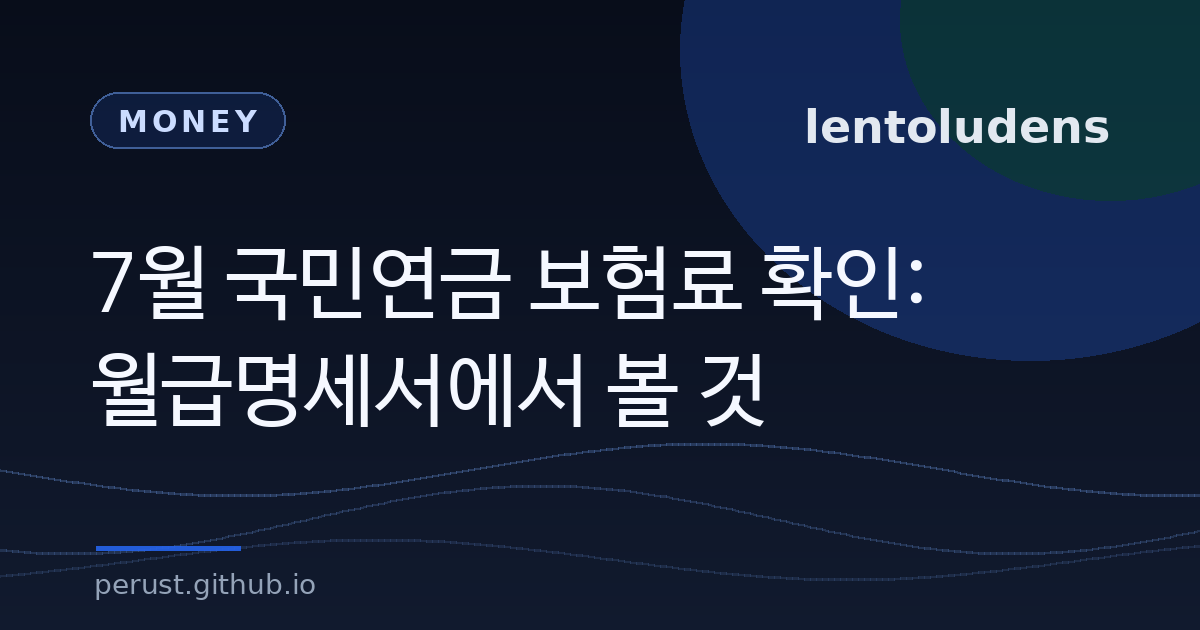
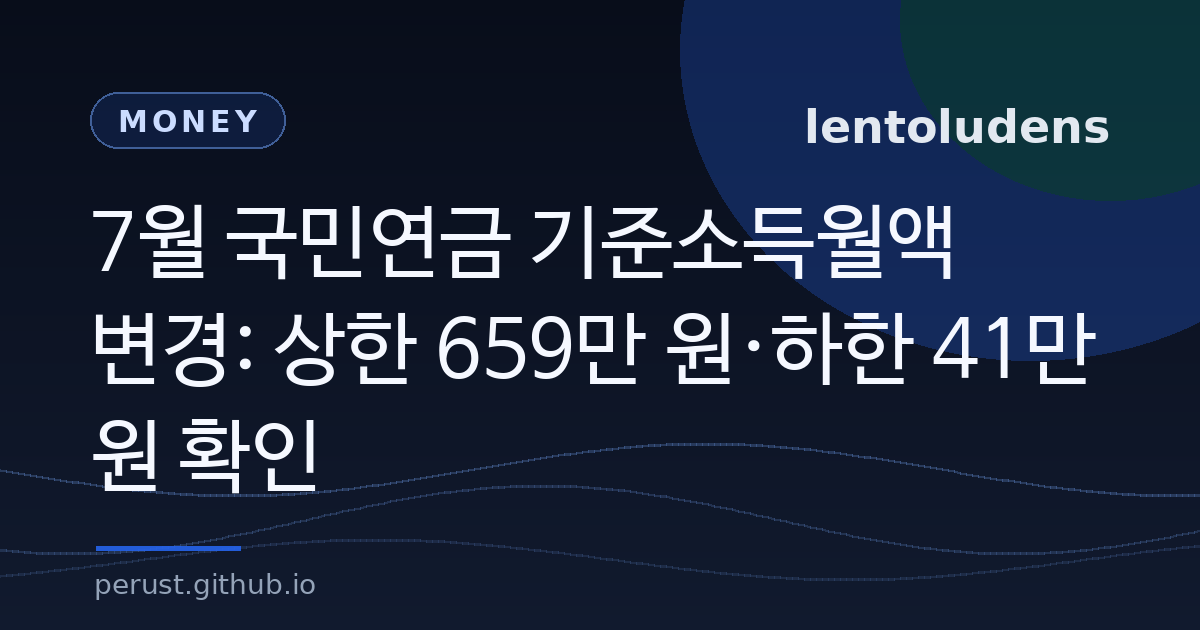
Refocus pension paycheck post on July income base limits

Changed region(s): [[0.0617, 0.3016, 0.925, 0.7841]]

diff --git a/src/content/blog/2026-07-06-national-pension-july-paycheck-checklist.md b/src/content/blog/2026-07-06-national-pension-july-paycheck-checklist.md
@@ -1,128 +1,168 @@
 ---
-title: "7월 국민연금 보험료 확인: 월급명세서에서 볼 것"
-description: "7월 월급명세서에서 국민연금 보험료가 달라졌다면 기준소득월액, 상·하한액, 본인부담액, 회사 신고 내역을 순서대로 확인해야 합니다."
+title: "7월 국민연금 기준소득월액 변경: 상한 659만 원·하한 41만 원 확인"
+description: "2026년 7월부터 국민연금 기준소득월액 상한액은 659만 원, 하한액은 41만 원으로 바뀝니다. 월급명세서에서 보험료 변화를 확인하는 순서를 정리했습니다."
 date: "2026-07-06T06:05:00+09:00"
+updated: "2026-07-06T17:25:00+09:00"
 category: "Money"
-tags: ["국민연금", "월급명세서", "4대보험", "연금", "직장인", "재테크"]
+tags: ["국민연금", "기준소득월액", "월급명세서", "4대보험", "직장인", "재테크"]
 ---
 
-7월 월급명세서에서 국민연금 공제액이 달라졌다면 먼저 오류라고 단정하지 않는 편이 좋습니다. 국민연금 보험료의 기준이 되는 기준소득월액은 매년 조정될 수 있고, 특히 7월부터 새 기준이 적용되는 흐름이 반복됩니다. 다만 실제 공제액은 개인의 신고소득, 회사 처리, 가입자 유형에 따라 달라지므로 월급명세서와 국민연금공단 내역을 함께 확인해야 합니다.
+2026년 7월부터 국민연금 보험료를 계산할 때 쓰는 기준소득월액 상한액과 하한액이 바뀝니다. 상한액은 637만 원에서 659만 원으로, 하한액은 40만 원에서 41만 원으로 조정됩니다. 7월 월급명세서에서 국민연금 공제액이 달라졌다면 먼저 이 변경을 확인해야 합니다.
 
-이번 글은 “왜 7월에 국민연금이 바뀌었는지”, “내 월급명세서에서 무엇을 봐야 하는지”, “회사에 무엇을 물어봐야 하는지”를 실무 체크리스트로 정리합니다.
+검색에서는 예전 보건복지부 보도자료 제목인 “국민연금 기준소득월액 상·하한액 7월부터 4.5% 인상”도 많이 보입니다. 그 4.5% 인상은 2024년 적용분의 표현입니다. 현재 확인해야 할 2026년 적용분은 보건복지부가 발표한 2026년 기준소득월액 조정으로, 최근 3년간 평균소득 변동률 3.4%를 반영해 상한 659만 원, 하한 41만 원이 적용됩니다.
 
 ## 먼저 볼 결론
 
 <ul class="issue-list">
   <li class="issue-card">
-    <span class="issue-badge">핵심</span>
-    <h3>7월에는 기준소득월액 변경 가능성</h3>
-    <p class="issue-summary">국민연금 보험료는 실제 월급 전액이 아니라 기준소득월액을 기준으로 계산됩니다. 상·하한액 조정이나 회사 신고소득 반영으로 7월 공제액이 바뀔 수 있습니다.</p>
+    <span class="issue-badge">적용</span>
+    <h3>2026년 7월부터 2027년 6월까지</h3>
+    <p class="issue-summary">국민연금 기준소득월액 상·하한액 조정은 7월분부터 다음 해 6월분까지 적용됩니다.</p>
+    <p class="issue-meta">출처: 보건복지부, 국민연금공단</p>
   </li>
   <li class="issue-card">
-    <span class="issue-badge">직장인</span>
-    <h3>월급명세서의 국민연금 공제액 확인</h3>
-    <p class="issue-summary">사업장가입자는 보통 근로자와 사용자가 보험료를 나누어 부담합니다. 명세서에는 본인 부담분만 공제액으로 보이는 경우가 많습니다.</p>
+    <span class="issue-badge">상한</span>
+    <h3>637만 원에서 659만 원</h3>
+    <p class="issue-summary">월 소득이 상한액을 넘는 가입자는 659만 원까지만 국민연금 보험료 산정 기준으로 잡힙니다.</p>
+    <p class="issue-meta">월 상한 기준 총 보험료 626,050원, 직장가입자 본인부담 313,025원</p>
   </li>
   <li class="issue-card">
-    <span class="issue-badge">확인</span>
-    <h3>급여 변동과 신고 내역 분리</h3>
-    <p class="issue-summary">이번 달 기본급·수당이 바뀐 것인지, 국민연금 기준소득월액 자체가 바뀐 것인지 구분해야 합니다. 둘을 섞으면 원인을 잘못 찾기 쉽습니다.</p>
+    <span class="issue-badge">하한</span>
+    <h3>40만 원에서 41만 원</h3>
+    <p class="issue-summary">소득이 낮더라도 국민연금 보험료 산정에는 하한액이 적용됩니다. 하한 기준도 7월부터 1만 원 올라갑니다.</p>
+    <p class="issue-meta">월 하한 기준 총 보험료 38,950원, 직장가입자 본인부담 19,475원</p>
   </li>
 </ul>
 
-## 국민연금 기준소득월액 뜻
+## 기준소득월액 뜻
 
-국민연금 보험료는 월급명세서의 모든 항목을 그때그때 더해서 바로 계산하는 방식으로 이해하면 헷갈립니다. 출발점은 기준소득월액입니다. 쉽게 말하면 국민연금 보험료와 나중의 연금급여 산정에 쓰기 위해 정한 월 소득 기준입니다.
+기준소득월액은 국민연금 보험료와 나중의 연금액을 계산할 때 쓰는 월 소득 기준입니다. 월급명세서의 실수령액이나 매달 받은 돈을 그대로 쓰는 개념이 아닙니다.
 
-보건복지부는 국민연금 보험료 산정의 기준이 되는 기준소득월액 상·하한액을 법령에 따라 매년 조정하며, 전체 가입자의 최근 3년간 평균소득 변동률을 반영한다고 설명한 바 있습니다. 그래서 월급이 크게 바뀌지 않았는데도 7월 무렵 국민연금 공제액이 달라지는 일이 생길 수 있습니다.
+국민연금에는 상한액과 하한액이 있습니다. 소득이 아무리 높아도 상한액까지만 보험료 계산에 반영되고, 소득이 낮아도 하한액 기준이 적용될 수 있습니다. 그래서 상·하한액이 바뀌면 일부 가입자의 월 보험료가 달라집니다.
 
-여기서 중요한 점은 두 가지입니다.
+보건복지부는 기준소득월액 상·하한액을 국민연금 전체 가입자의 최근 3년간 평균소득 변동률을 반영해 매년 결정한다고 설명합니다. 2026년에는 평균소득 변동률 3.4%가 반영됐고, 이에 따라 상한액과 하한액이 조정됐습니다.
 
-- 기준소득월액에는 상한과 하한이 있습니다.
-- 실제 공제액은 회사가 신고한 기준소득월액과 가입자 유형에 따라 달라집니다.
+## 7월부터 바뀌는 숫자
 
-월급이 높은 사람은 상한액 조정의 영향을 받을 수 있고, 소득이 낮거나 짧게 일하는 사람은 하한액과 가입자 유형을 봐야 합니다. 프리랜서·지역가입자·임의가입자는 직장인 월급명세서와 확인 방식이 다릅니다.
+2026년 7월부터 적용되는 핵심 숫자는 아래입니다.
+
+<ul class="issue-list">
+  <li class="issue-card">
+    <span class="issue-badge">상한액</span>
+    <h3>637만 원 → 659만 원</h3>
+    <p class="issue-summary">월 소득이 659만 원을 넘더라도 국민연금 보험료는 659만 원을 기준으로 계산됩니다. 기존 상한액보다 22만 원 올라갑니다.</p>
+  </li>
+  <li class="issue-card">
+    <span class="issue-badge">하한액</span>
+    <h3>40만 원 → 41만 원</h3>
+    <p class="issue-summary">하한 기준은 1만 원 올라갑니다. 소득이 낮은 가입자나 일부 지역가입자는 하한 조정 여부를 확인할 필요가 있습니다.</p>
+  </li>
+  <li class="issue-card">
+    <span class="issue-badge">영향</span>
+    <h3>대부분은 상·하한 조정 직접 영향 없음</h3>
+    <p class="issue-summary">보건복지부는 해당 소득 구간에 속하지 않는 대부분의 가입자는 상·하한액 조정에 따른 영향을 받지 않는다고 설명했습니다.</p>
+  </li>
+</ul>
+
+여기서 중요한 점은 “모든 직장인의 국민연금이 같은 비율로 오른다”가 아니라는 것입니다. 상한액보다 낮고 하한액보다 높은 구간에 있는 일반적인 직장인은 상·하한액 조정만으로 보험료가 달라지지 않을 수 있습니다. 다만 7월에는 정기결정, 급여 변동, 보험료율 변화, 회사 신고 내역이 함께 반영될 수 있어 월급명세서를 직접 확인해야 합니다.
+
+## 월급에서 얼마나 달라지나
+
+2026년 국민연금 보험료율은 9.5%입니다. 직장가입자는 보통 회사와 근로자가 절반씩 부담하므로 월급명세서에 보이는 본인 부담률은 4.75%로 이해하면 됩니다.
+
+상한액 기준으로 보면 총 보험료는 다음처럼 바뀝니다.
+
+<ul class="issue-list">
+  <li class="issue-card">
+    <span class="issue-badge">기존 상한</span>
+    <h3>637만 원 기준</h3>
+    <p class="issue-summary">총 보험료는 월 605,150원입니다. 직장가입자 본인부담은 월 302,575원입니다.</p>
+  </li>
+  <li class="issue-card">
+    <span class="issue-badge">새 상한</span>
+    <h3>659만 원 기준</h3>
+    <p class="issue-summary">총 보험료는 월 626,050원입니다. 직장가입자 본인부담은 월 313,025원입니다.</p>
+  </li>
+  <li class="issue-card">
+    <span class="issue-badge">차이</span>
+    <h3>상한 초과 직장인은 본인부담 월 10,450원 증가</h3>
+    <p class="issue-summary">월 소득이 기존 상한액 637만 원을 넘는 직장인은 상한 조정으로 본인부담액이 늘 수 있습니다.</p>
+  </li>
+</ul>
+
+하한액 기준으로는 총 보험료가 월 38,000원에서 38,950원으로 바뀝니다. 직장가입자 본인부담 기준으로는 월 19,000원에서 19,475원으로 475원 차이입니다.
+
+다만 지역가입자, 임의가입자, 사업장가입자, 두루누리 지원 여부에 따라 실제 부담 방식은 달라질 수 있습니다. 본인 월급명세서 금액과 국민연금공단 내역을 같이 보는 것이 안전합니다.
+
+## 4.5% 인상 보도자료와 2026년 숫자 구분
+
+“상·하한액 7월부터 4.5% 인상”이라는 표현은 보건복지부의 2024년 보도자료에서 나온 내용입니다. 당시에는 기준소득월액 상한액이 590만 원에서 617만 원으로, 하한액이 37만 원에서 39만 원으로 조정됐습니다.
+
+하지만 지금 월급명세서에서 확인해야 할 2026년 적용 숫자는 다릅니다.
+
+<ul class="issue-list">
+  <li class="issue-card"><h3>2024년 적용분</h3><p class="issue-summary">상한액 590만 원 → 617만 원, 하한액 37만 원 → 39만 원, 보도자료 표현 4.5% 인상</p></li>
+  <li class="issue-card"><h3>2026년 적용분</h3><p class="issue-summary">상한액 637만 원 → 659만 원, 하한액 40만 원 → 41만 원, 평균소득 변동률 3.4% 반영</p></li>
+</ul>
+
+따라서 검색 결과에서 4.5% 인상이라는 제목을 봤다면 먼저 연도를 확인해야 합니다. 2026년 7월 월급명세서를 보는 목적이라면 659만 원과 41만 원이 기준입니다.
 
 ## 월급명세서에서 볼 순서
 
-7월 급여를 받았거나 받을 예정이라면 아래 순서로 보면 됩니다. 처음부터 복잡한 계산을 하기보다, 숫자가 어디에서 바뀌었는지 찾는 것이 먼저입니다.
+7월 급여를 받았거나 받을 예정이라면 아래 순서로 확인하면 됩니다.
 
 <ul class="issue-list">
   <li class="issue-card">
     <span class="issue-badge">1</span>
-    <h3>국민연금 공제액</h3>
-    <p class="issue-summary">지난달 명세서와 이번 달 명세서의 국민연금 공제액을 비교합니다. 건강보험, 고용보험, 소득세와 섞어 보지 말고 국민연금 항목만 따로 봅니다.</p>
+    <h3>국민연금 공제액 비교</h3>
+    <p class="issue-summary">6월과 7월 월급명세서의 국민연금 항목만 따로 비교합니다. 건강보험, 고용보험, 소득세와 섞어 보면 원인을 놓치기 쉽습니다.</p>
   </li>
   <li class="issue-card">
     <span class="issue-badge">2</span>
-    <h3>기본급과 고정수당</h3>
-    <p class="issue-summary">승진, 연봉 조정, 직책수당, 고정수당 변화가 있었는지 확인합니다. 급여 자체가 바뀌었다면 국민연금 공제액 변화의 원인이 함께 생겼을 수 있습니다.</p>
+    <h3>기준소득월액 또는 4대보험 산정 기준</h3>
+    <p class="issue-summary">급여시스템에 기준소득월액, 보수월액, 4대보험 산정기준이 표시된다면 전월과 달라졌는지 봅니다.</p>
   </li>
   <li class="issue-card">
     <span class="issue-badge">3</span>
-    <h3>기준소득월액 또는 보수월액 표기</h3>
-    <p class="issue-summary">회사 급여시스템에 기준소득월액, 보수월액, 4대보험 산정기준 같은 항목이 보이면 그 숫자가 전월과 달라졌는지 확인합니다.</p>
+    <h3>급여 변동과 신고 내역 분리</h3>
+    <p class="issue-summary">연봉 조정, 승진, 휴직·복직, 입사·퇴사, 고정수당 변화가 있었는지 따로 확인합니다.</p>
+  </li>
+  <li class="issue-card">
+    <span class="issue-badge">4</span>
+    <h3>국민연금공단 가입내역 확인</h3>
+    <p class="issue-summary">회사 명세서와 공단 기록이 크게 다르면 회사 인사·급여 담당자에게 신고소득과 정산 여부를 문의합니다.</p>
   </li>
 </ul>
 
-회사마다 명세서 양식이 다릅니다. 어떤 회사는 국민연금 공제액만 보여주고, 어떤 회사는 4대보험 산정 기준까지 보여줍니다. 산정 기준이 보이지 않는다면 인사·급여 담당자에게 “7월 국민연금 기준소득월액이 어떻게 반영됐는지”를 물어보는 편이 빠릅니다.
-
-## 본인부담액 계산 감각
-
-직장인의 국민연금은 보통 회사와 근로자가 나누어 부담합니다. 월급명세서에서 빠지는 금액은 대체로 근로자 본인 부담분입니다. 따라서 검색하다가 “국민연금 보험료 총액”을 보았을 때 그 숫자를 그대로 내 월급 공제액으로 생각하면 안 됩니다.
-
-예를 들어 총 보험료와 본인 공제액은 다르게 보일 수 있습니다. 회사가 부담하는 몫은 월급명세서 공제 항목에 나타나지 않거나 별도 표시되는 경우가 많습니다. 그래서 공제액이 생각보다 적거나 많아 보이면 먼저 “총 보험료인지, 본인부담액인지”를 구분해야 합니다.
-
-또 하나의 오해는 국민연금 공제액이 이번 달 실수령액만 줄이는 돈이라고 보는 것입니다. 보험료가 올라가면 당장 월급에서 빠지는 금액은 늘 수 있지만, 국민연금 제도 안에서는 가입자의 소득 기록과 장래 급여 산정에도 연결됩니다. 단기 현금흐름과 장기 연금기록을 함께 봐야 하는 이유입니다.
+월급이 그대로인데 국민연금 공제액만 바뀌었다면 기준소득월액 정기결정, 상·하한액 조정, 회사 신고 내역을 먼저 봅니다. 월급 자체가 바뀌었다면 급여 변동이 원인일 수 있습니다.
 
 ## 회사에 물어볼 질문
 
-공제액이 전월보다 눈에 띄게 달라졌다면 감으로 판단하지 말고 아래 질문을 정리해 문의하는 것이 좋습니다.
+공제액 변화가 설명되지 않으면 감으로 판단하지 말고 질문을 구체적으로 정리하는 편이 좋습니다.
 
 <ul class="issue-list">
-  <li class="issue-card">
-    <span class="issue-badge">질문 1</span>
-    <h3>7월 기준소득월액 반영 여부</h3>
-    <p class="issue-summary">이번 달 국민연금 공제액 변화가 7월 기준소득월액 변경 때문인지, 급여 변동 때문인지 확인합니다.</p>
-  </li>
-  <li class="issue-card">
-    <span class="issue-badge">질문 2</span>
-    <h3>신고소득과 실제 급여 차이</h3>
-    <p class="issue-summary">최근 입사, 휴직, 복직, 무급휴가, 급여 조정이 있었다면 회사가 국민연금공단에 신고한 소득 기준을 확인합니다.</p>
-  </li>
-  <li class="issue-card">
-    <span class="issue-badge">질문 3</span>
-    <h3>정정 또는 소급 반영 가능성</h3>
-    <p class="issue-summary">이전 달분 정산, 신고 지연, 급여시스템 반영 지연이 있으면 한 달 공제액이 평소와 다르게 보일 수 있습니다.</p>
-  </li>
+  <li class="issue-card"><h3>7월 기준소득월액 반영 여부</h3><p class="issue-summary">이번 달 국민연금 공제액이 7월 정기결정으로 바뀐 것인지 확인합니다.</p></li>
+  <li class="issue-card"><h3>신고소득 기준</h3><p class="issue-summary">회사에서 국민연금공단에 신고한 소득 기준이 월급명세서의 산정 기준과 맞는지 확인합니다.</p></li>
+  <li class="issue-card"><h3>정산·소급 반영 여부</h3><p class="issue-summary">이전 달분 정산, 신고 지연, 시스템 반영 지연이 있는지 확인합니다.</p></li>
+  <li class="issue-card"><h3>지원 제도 적용 여부</h3><p class="issue-summary">두루누리 사회보험료 지원 등 지원 제도가 적용되는 사업장이라면 본인 부담액이 단순 계산과 다를 수 있습니다.</p></li>
 </ul>
 
-특히 입사 첫해, 이직 직후, 휴직·복직 직후에는 단순한 7월 조정뿐 아니라 신고 시점과 정산 문제가 겹칠 수 있습니다. 월급명세서 한 장만 보고 결론을 내리기보다 회사의 4대보험 신고 기준과 국민연금공단 가입내역을 함께 확인하는 편이 안전합니다.
-
-## 국민연금공단 내역 확인
-
-월급명세서가 회사 내부 문서라면 국민연금공단 내역은 공단에 기록된 가입 정보를 확인하는 경로입니다. 공제액이 이상하다고 느껴질 때는 다음 항목을 봅니다.
-
-- 사업장가입자로 정상 가입되어 있는지
-- 최근 자격 취득·상실·변동 신고가 반영되어 있는지
-- 기준소득월액 또는 보험료 관련 내역이 급여명세서와 크게 다르지 않은지
-- 이전 직장과 현 직장 사이에 중복·공백이 없는지
-
-다만 공단 화면의 반영 시점과 회사 급여 지급 시점은 완전히 같지 않을 수 있습니다. 오늘 급여명세서에 보이는 금액이 공단 화면에 바로 같은 방식으로 보이지 않는 경우도 있으니, 차이가 있으면 캡처와 명세서를 들고 회사 담당자에게 확인하는 것이 좋습니다.
+특히 이직, 입사 첫해, 휴직·복직 직후에는 단순한 상·하한액 조정뿐 아니라 신고 시점과 정산 문제가 함께 생길 수 있습니다. 숫자가 이상해 보이면 명세서 캡처와 공단 내역을 같이 놓고 문의하는 것이 빠릅니다.
 
 ## 이번 주 체크리스트
 
-이번 주에 할 일은 복잡하지 않습니다. 7월 급여 전후로 아래 네 가지만 확인하면 됩니다.
+7월 국민연금 변경 이슈에서 독자가 바로 할 일은 네 가지입니다.
 
 1. 6월과 7월 월급명세서의 국민연금 공제액을 비교합니다.
-2. 기본급·고정수당·휴직·복직·입사·퇴사 등 개인 급여 변동이 있었는지 적어봅니다.
-3. 회사 급여시스템에서 기준소득월액 또는 4대보험 산정 기준을 확인합니다.
-4. 차이가 설명되지 않으면 인사·급여 담당자에게 신고소득과 정산 여부를 문의합니다.
+2. 내 기준소득월액이 637만 원 초과 또는 40만 원 부근인지 확인합니다.
+3. 급여 변동, 휴직·복직, 입사·퇴사, 수당 변동이 있었는지 따로 적어둡니다.
+4. 설명되지 않는 차이는 국민연금공단 내역과 회사 신고소득을 함께 확인합니다.
 
-국민연금은 매달 자동으로 빠져나가서 그냥 지나치기 쉽습니다. 하지만 7월은 공제액 변화가 눈에 띄기 쉬운 시기입니다. 월급명세서에서 국민연금 항목만 따로 비교해두면 실수령액 변동 원인을 훨씬 빨리 찾을 수 있습니다.
+상·하한액 조정은 모든 사람의 월급을 똑같이 줄이는 변화가 아닙니다. 하지만 고소득 구간, 저소득 구간, 입퇴사·휴복직처럼 신고 기준이 바뀌는 사람에게는 7월 월급명세서에서 바로 체감될 수 있습니다. 이번 달에는 국민연금 항목만 따로 비교해두는 것이 좋습니다.
 
 ## 확인한 자료
 
-- [보건복지부 보도자료 - 국민연금 기준소득월액 상·하한액 7월부터 4.5% 인상](https://www.mohw.go.kr/board.es?mid=a10503000000&bid=0027&act=view&list_no=1481895&tag=&nPage=1)
-- [국민연금공단](https://www.nps.or.kr/)
-- [국가법령정보센터 - 국민연금법](https://www.law.go.kr/법령/국민연금법)
+- [보건복지부 보도자료 - 국민연금·기초연금 급여 올해 2.1% 인상 확정](https://www.mohw.go.kr/board.es?mid=a10503010100&bid=0027&act=view&list_no=1488572)
+- [국민연금공단 공지 - 2026년도 국민연금 기준소득월액 상·하한액 조정 안내](https://www.nps.or.kr/pnsgdnc/newgdnc/getOHAE0001M1.do?menuId=MN24000897&pstId=ZZ202600000000000147)
+- [국가법령정보센터 - 국민연금 기준소득월액 하한액과 상한액](https://www.law.go.kr/행정규칙/국민연금기준소득월액하한액과상한액)
+- [보건복지부 보도자료 - 국민연금 기준소득월액 상·하한액 7월부터 4.5% 인상](https://www.mohw.go.kr/board.es?mid=a10503010100&bid=0027&act=view&list_no=1481895)
